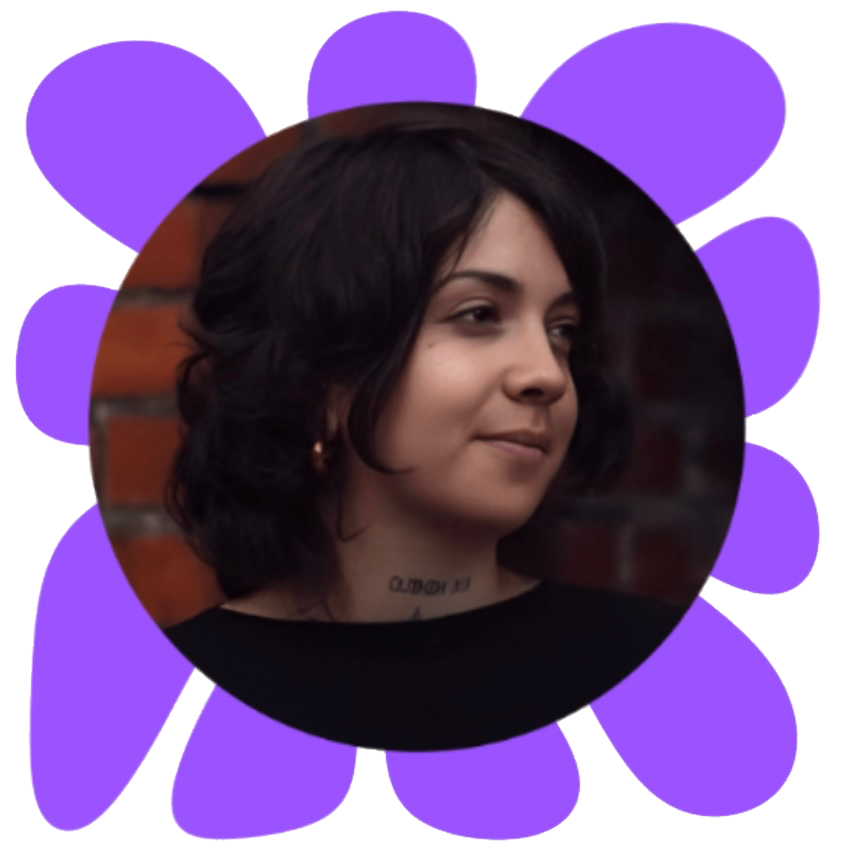
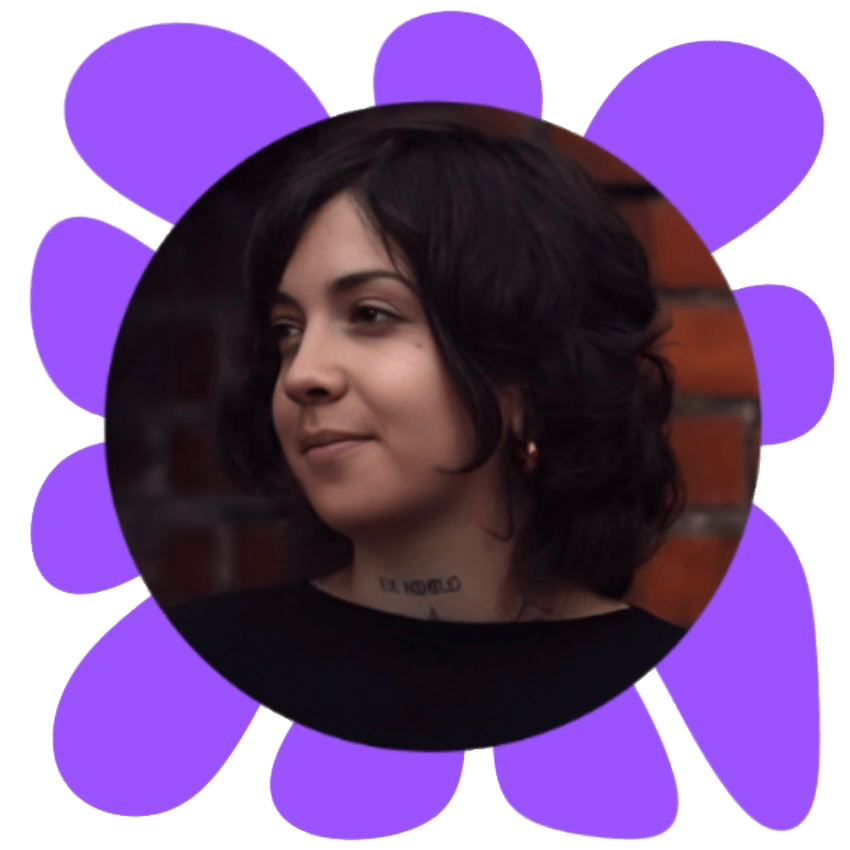
making about page responsive:

diff --git a/about.html b/about.html
@@ -48,58 +48,41 @@
         </div>
     </nav>
 
-    <div class="container aboutMe d-flex">
-        <div class="row aboutInfo m-10">
-            <!-- Profile Image -->
-            <div class="col-12 d-flex align-items-center justify-content-left">
+    <div class="container-fluid aboutMe d-flex">
+        <div class="row aboutInfo">
+
+            <div class="col-12 col-md-6 d-flex align-items-center justify-content-center firstBit">
                 <img src="assets/images/NameText.png" alt="My name is Kim" class="nameText">
+            </div>
+
+            <div class="col-12 col-md-6 d-flex align-items-center justify-content-center firstBit">
                 <p class="about-text">
                     I am a visual artist and aspiring web developer. My creative background allows me to approach design
                     projects from a different angle, with a strong focus on making the user experience both beautiful
                     and intuitive. I understand the importance of colors, composition, and storytelling from both an
                     artistic and technical perspective.
                     <a href="insertcvhere.pdf" class="btn cvButton" download>Download C.V</a>
-                </p>
-                   
+                </p>  
             </div>
         
-
-            <div class="col-12 d-flex align-items-center justify-content-center" style="flex-direction: row">
-            <p class="about-text">
+            <div class="col-12 col-md-6 d-flex align-items-center justify-content-center secondBit">
+                <p class="about-text">
                     Lorem ipsum dolor sit amet, consectetur adipiscing elit. Sed non risus. Suspendisse lectus tortor
                     dignissim sit amet, adipiscing nec, ultricies sed, dolor. Cras elementum ultrices diam. Maecenas
                     ligula massa, varius a, semper congue, euismod non, mi.<br>
                      <a href="gallery.html" class="btn galleryButton" download>View my art</a>
-            </p>
-                <img src="assets/images/ProfileImage.png" alt="Profile Image" class="profileImage">
-        </div>
+                </p> 
+            </div>
+                
+            <div class="col-12 col-md-6 d-flex align-items-center justify-content-center secondBit">
+                    <img src="assets/images/ProfileImage.png" alt="Profile Image" class="profileImage">
+            </div>
        </div>
        
         <div class="row greatRow">
             <div class="col-12">
             <img src="assets/images/AboutText.png" alt="It's great to meet you!">
             </div>
-        </div>
-
-        <!-- Second Row -->
-      
-      
-      
-      
-      
-      
-      
-      
-      
-      
-            
-          
-          
-          
-
-
-
-
         </div>
     </div>
 

diff --git a/gallery.html b/gallery.html
@@ -48,6 +48,68 @@
         </div>
     </nav>
 
+    <!DOCTYPE html>
+<html lang="en">
+
+<head>
+    <meta charset="UTF-8">
+    <meta name="viewport" content="width=device-width, initial-scale=1.0">
+    <title>Responsive Layout</title>
+
+    <!-- Bootstrap CSS Link -->
+    <link href="https://cdn.jsdelivr.net/npm/bootstrap@5.3.3/dist/css/bootstrap.min.css" rel="stylesheet"
+        integrity="sha384-QWTKZyjpPEjISv5WaRU9OFeRpok6YctnYmDr5pNlyT2bRjXh0JMhjY6hW+ALEwIH" crossorigin="anonymous">
+</head>
+
+<body>
+    <!-- Content Section -->
+    <div class="container mt-5">
+        <div class="row">
+            <!-- Image 1 (will stack on top on small screens) -->
+            <div class="col-12 col-md-6 d-flex justify-content-center mb-4">
+                <img src="assets/images/Image1.jpg" alt="First Image" class="img-fluid">
+            </div>
+
+            <!-- Paragraph 1 -->
+            <div class="col-12 col-md-6 d-flex justify-content-center align-items-center mb-4">
+                <p class="text-center">This is the first paragraph of text.</p>
+            </div>
+
+            <!-- Button 1 -->
+            <div class="col-12 col-md-6 d-flex justify-content-center mb-4">
+                <button class="btn btn-primary">Button 1</button>
+            </div>
+
+            <!-- Paragraph 2 -->
+            <div class="col-12 col-md-6 d-flex justify-content-center align-items-center mb-4">
+                <p class="text-center">This is the second paragraph of text.</p>
+            </div>
+
+            <!-- Button 2 -->
+            <div class="col-12 col-md-6 d-flex justify-content-center mb-4">
+                <button class="btn btn-secondary">Button 2</button>
+            </div>
+
+            <!-- Image 2 (on large screens will align with other items) -->
+            <div class="col-12 col-md-6 d-flex justify-content-center mb-4">
+                <img src="assets/images/Image2.jpg" alt="Second Image" class="img-fluid">
+            </div>
+
+            <!-- Image 3 -->
+            <div class="col-12 col-md-6 d-flex justify-content-center mb-4">
+                <img src="assets/images/Image3.jpg" alt="Third Image" class="img-fluid">
+            </div>
+        </div>
+    </div>
+
+   
+ 
+ 
+
+
+
+
+
     
     <!-- footer -->
     <footer class="footer">

diff --git a/assets/css/style.css b/assets/css/style.css
@@ -104,15 +104,25 @@ body .btn {
 
 /* about page styles */
 
+
+
 .about-text {
     margin: 30px;
     text-align: justify;
 }
 
+.firstBit, .secondBit {
+    margin: 0;
+    padding: 0;
+}
 .aboutMe {
         display: grid;
         grid-template-rows: 2fr 1fr; 
-        height: 100vh;
+        align-content: space-around;
+      }
+
+      .aboutInfo {
+        align-content: center;
       }
       
 .greatRow {
@@ -120,31 +130,29 @@ body .btn {
     align-items: start;
     justify-content: start;
     padding-top: 30px;
+
 }
 .greatRow img { 
     width: 400px;
     height: auto;
 }
 
-.nameText {
-    width: 30vh;
+.aboutMe .row {
+    margin-bottom: 0 !important;
+    padding: 20px; /* Remove default margin from Bootstrap rows */
 }
 
-.aboutInfo {
-        display: flex;
-        justify-content: center; 
-        align-items: center; 
-        margin: 50px;
-        padding: 20px;                        
+.about-text {
+    margin-bottom: 0; 
+}
+
+.nameText {
+    width: 35vh;
 }
 
 .profileImage {
-   width: 30vh;
+   width: 35vh;
 }
-
-
-
-
 
 .btn.cvButton,
 .btn.galleryButton {
@@ -157,6 +165,8 @@ body .btn {
     font-size: 2rem;
     color: black;
     text-align: center !important;
+    margin-top: 5px;
+    padding: 12px;
 }
 
 .btn.cvButton:hover,
